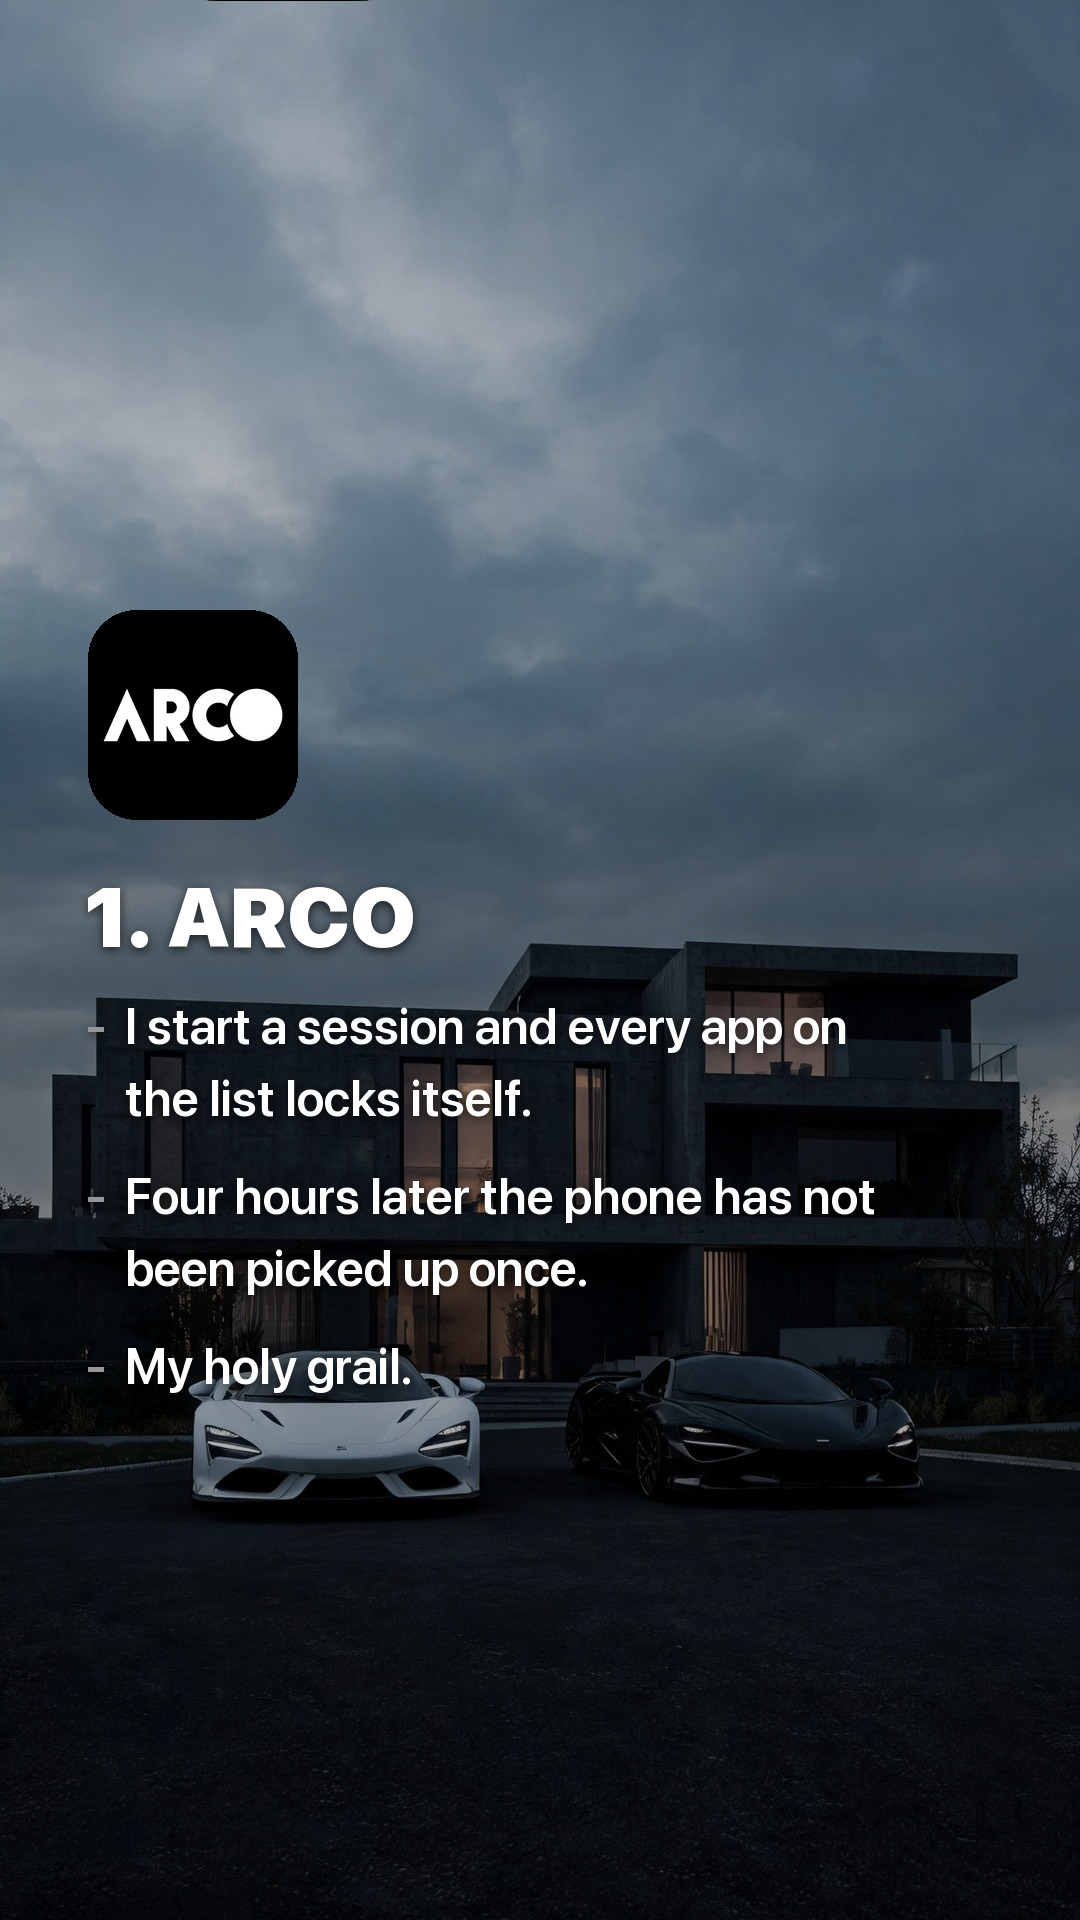
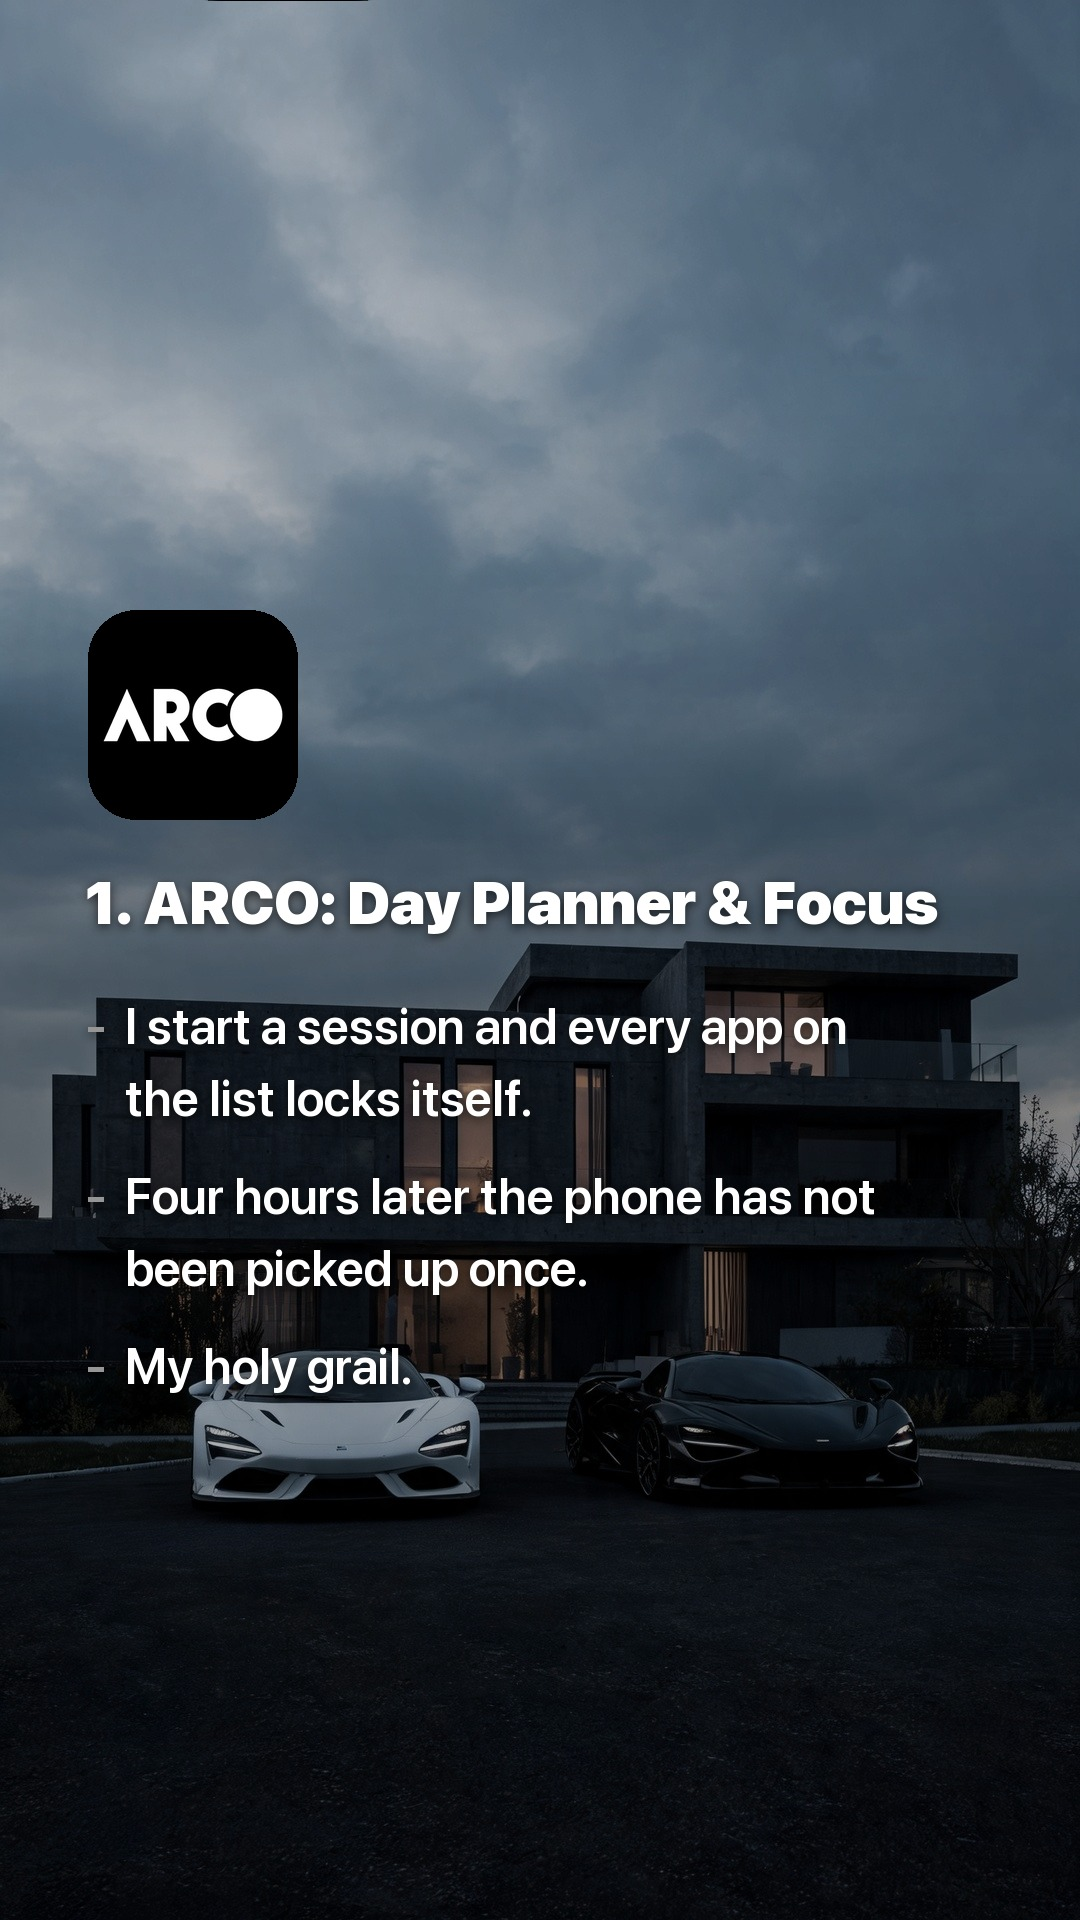
boring-phone slide 2 carries ARCO's full App Store name
The ARCO slide titled itself "1. ARCO" while the listing is "ARCO: Day
Planner & Focus", so a viewer searching the App Store for what they read
lands on nothing. Retitled and re-rendered slide 2 only; background,
icon and body copy unchanged.

Changed region(s): [[0.0917, 0.4375, 0.8861, 0.5]]

diff --git a/tools/gen-boring-phone.py b/tools/gen-boring-phone.py
@@ -61,11 +61,16 @@ if BGS[0] not in log:
 hook_slide(BGS[0], HOOK, f'{OUT}/01.jpg')
 mark_hook_used(HOOK, TOPIC)
 
+# ARCO carries its full App Store name on its own slide, so a viewer who
+# goes looking finds the listing under the name they just read.
+TITLES = {'ARCO': 'ARCO: Day Planner & Focus'}
+
 icons = json.load(open(c.TOOL_POOL))['icons']
 for i, tool in enumerate(TOOLS):
     n, bg = i + 1, BGS[i + 1]
     body = next_arco_angle(THEME) if tool == 'ARCO' else BODY[tool]
-    app_slide(bg, icons[tool], f'{n}. {tool}', body, f'{OUT}/{n+1:02d}.jpg')
+    title = f'{n}. {TITLES.get(tool, tool)}'
+    app_slide(bg, icons[tool], title, body, f'{OUT}/{n+1:02d}.jpg')
 
 record_post_tools(TOPIC, TOOLS)
 record_post_bgs(TOPIC, BGS)
